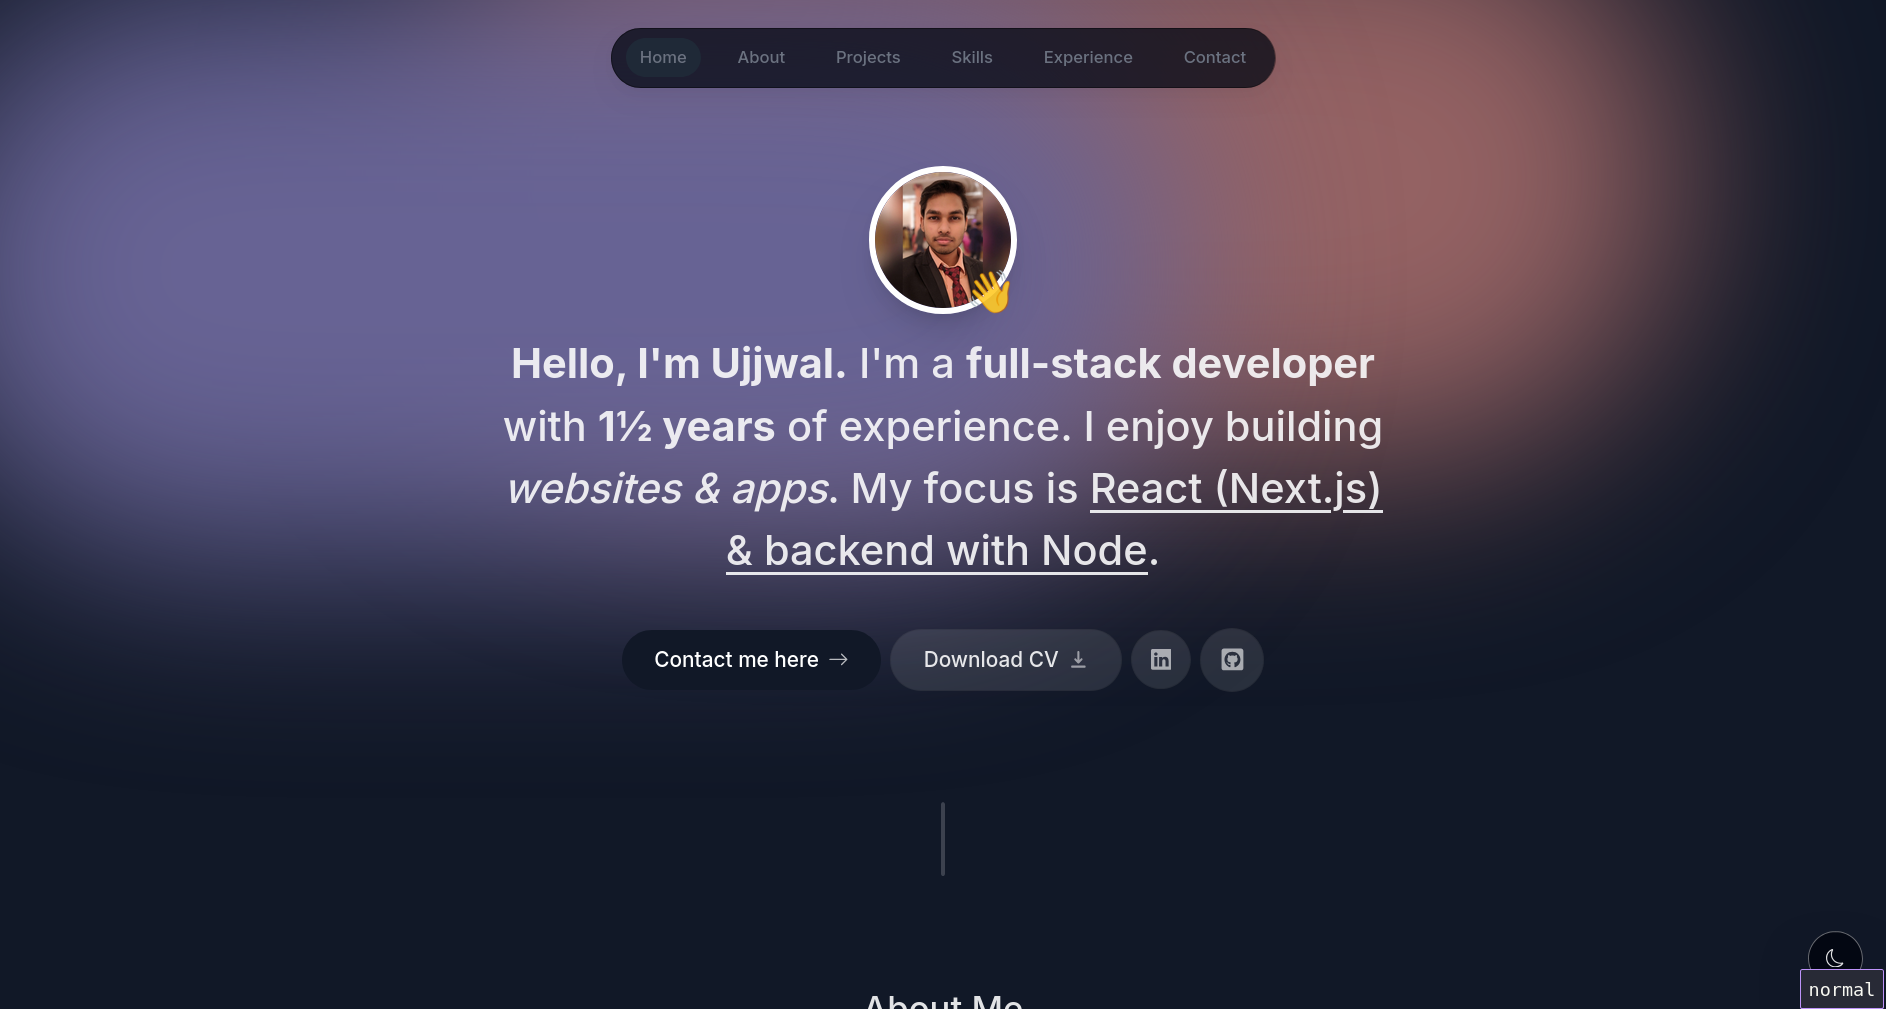
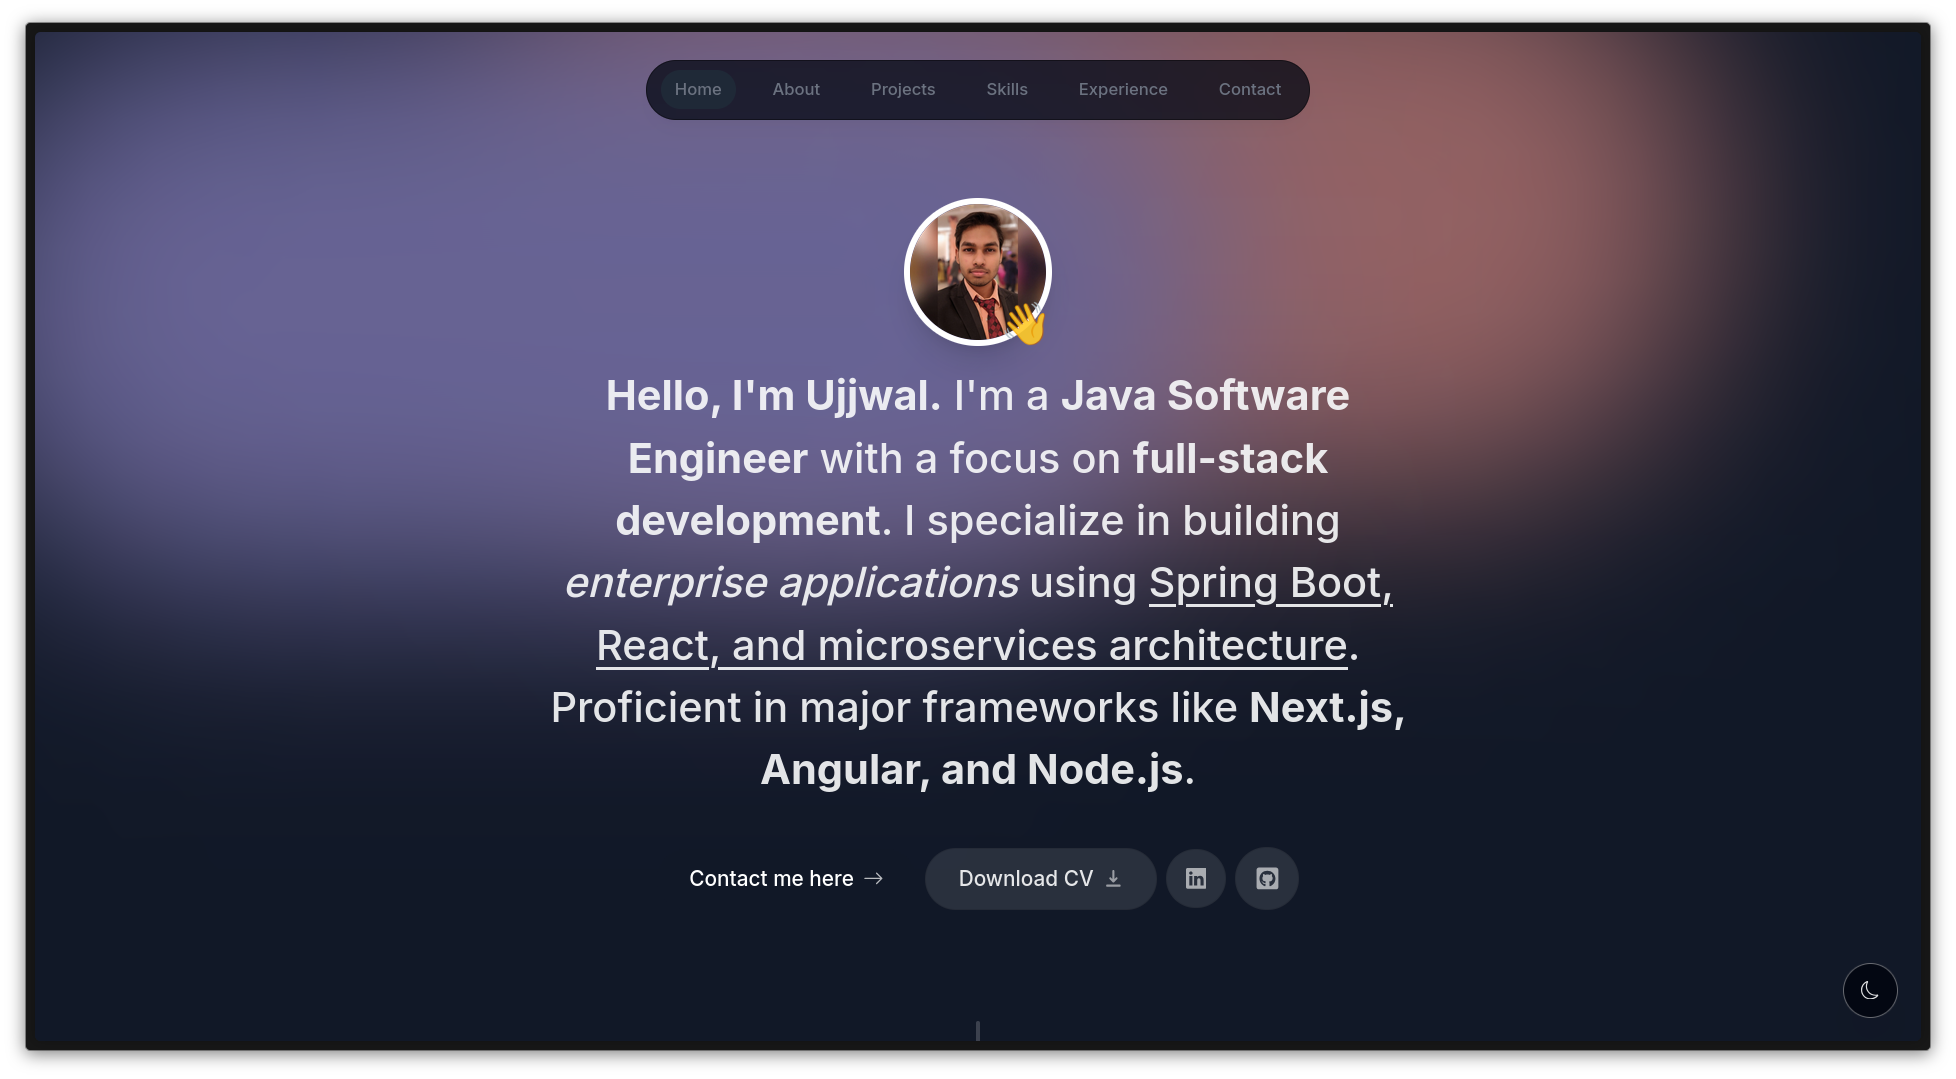
update README file

diff --git a/README.md b/README.md
@@ -10,84 +10,112 @@
 
 ## 🚀 Professional Summary
 
-Innovative Software Engineer specializing in full-stack development with expertise in:
+Full-stack Software Engineer with expertise in **Java/Spring Boot** and modern **JavaScript frameworks**, specializing in building secure, scalable services-based applications. Strong background in developing enterprise-level solutions with a focus on performance optimization and user experience. Combines analytical problem-solving abilities with collaborative skills to deliver high-impact software solutions across healthcare, education, and financial technologies.
 
-- Microservices architecture & cloud-native solutions
-- High-performance application development
-- Secure system design & implementation
-- Machine learning integration
+**Core Competencies:**
+Spring Boot • React/Next.js • Docker • CI/CD • REST APIs
 
-**Core Competencies:** Spring Boot • React/Next.js • AWS • Docker • CI/CD
+---
 
-## 🛠 Technical Arsenal
+## 🛠 Technical Proficiencies
 
 ### **Programming Languages**
 
 ![Java](https://img.shields.io/badge/Java-ED8B00?style=flat-square&logo=java&logoColor=white)
 ![TypeScript](https://img.shields.io/badge/TypeScript-007ACC?style=flat-square&logo=typescript&logoColor=white)
+![JavaScript](https://img.shields.io/badge/JavaScript-F7DF1E?style=flat-square&logo=javascript&logoColor=black)
 ![Python](https://img.shields.io/badge/Python-3776AB?style=flat-square&logo=python&logoColor=white)
 
-### **Web Technologies**
+### **Frameworks & Technologies**
 
 ![Spring Boot](https://img.shields.io/badge/Spring_Boot-6DB33F?style=flat-square&logo=spring-boot&logoColor=white)
+![Node.js](https://img.shields.io/badge/Node.js-339933?style=flat-square&logo=node.js&logoColor=white)
 ![React](https://img.shields.io/badge/React-20232A?style=flat-square&logo=react&logoColor=61DAFB)
 ![Next.js](https://img.shields.io/badge/Next.js-000000?style=flat-square&logo=next.js&logoColor=white)
+![Angular](https://img.shields.io/badge/Angular-DD0031?style=flat-square&logo=angular&logoColor=white)
 
-### **Cloud & DevOps**
+### **Databases & Tools**
 
-![AWS](https://img.shields.io/badge/AWS-232F3E?style=flat-square&logo=amazon-aws&logoColor=white)
+![MySQL](https://img.shields.io/badge/MySQL-4479A1?style=flat-square&logo=mysql&logoColor=white)
+![PostgreSQL](https://img.shields.io/badge/PostgreSQL-4169E1?style=flat-square&logo=postgresql&logoColor=white)
+![MongoDB](https://img.shields.io/badge/MongoDB-47A248?style=flat-square&logo=mongodb&logoColor=white)
+![Firebase](https://img.shields.io/badge/Firebase-FFCA28?style=flat-square&logo=firebase&logoColor=black)
 ![Docker](https://img.shields.io/badge/Docker-2496ED?style=flat-square&logo=docker&logoColor=white)
-![Kubernetes](https://img.shields.io/badge/Kubernetes-326CE5?style=flat-square&logo=kubernetes&logoColor=white)
-
-## 💻 Highlighted Projects
-
-### **Microservice Healthcare Platform** [![GitHub](https://img.shields.io/badge/Source-181717?style=flat-square&logo=github)](https://github.com/gargujjwal/HackForHer-Health)
-
-- Architected Spring Boot/Flask microservices with JWT security
-- Developed ML-powered cancer prediction system (95-98% accuracy)
-- **Tech Stack**: Spring Boot • PostgreSQL • Docker • Machine Learning
-
-### **Enterprise School Management System**
-
-- Handled 1200+ student records with AWS deployment
-- Implemented type-safe APIs using tRPC
-- **Tech Stack**: Next.js • Prisma • AWS EC2 • Microservices
-
-### **Full-Stack Recipe Platform** [![GitHub](https://img.shields.io/badge/Source-181717?style=flat-square&logo=github)](https://github.com/gargujjwal/Forklify)
-
-- Developed secure CRUD application with NextAuth.js
-- **Tech Stack**: Next.js • MongoDB • Material UI
-
-## 🏆 Professional Journey
-
-### **Backend Development Intern** @ Valsco Technology
-
-- Optimized SEO for top 5 Google rankings
-- Integrated payment gateways & web scraping systems
-
-### **Technical Mentor** @ Ayna College
-
-- Mentored 4,000+ students with 5-star rated support
-- Provided technical guidance on full-stack development
-
-## 📚 Education
-
-**B.Tech in Information Technology**  
-Vellore Institute of Technology (CGPA: 8.99/10)  
-_2021-2025_
-
-**Senior Secondary Education**  
-Flora Dale School (94.4%)  
-_2019-2021_
-
-## 📜 Certifications
-
-- Java Spring Boot Mastery Certification
-- Next.js Advanced Development Certification
-- AWS Cloud Practitioner Essentials
+![Git](https://img.shields.io/badge/Git-F05032?style=flat-square&logo=git&logoColor=white)
 
 ---
 
-📫 **Let's Connect**:  
+## 💻 Professional Projects
+
+### **Cervix Cancer Predictor** [![GitHub](https://img.shields.io/badge/Source-181717?style=flat-square&logo=github)](https://github.com/gargujjwal/HackForHer-Health)
+
+- Architected scalable services using **Spring Boot** and **Flask** with domain-driven design.
+- Developed **ML-powered cervical cancer prediction** system with secure patient-doctor communication.
+- Implemented **JWT-based authentication** using Spring Security and features like real-time chat and medical-case management.
+- **Tech Stack**: Spring Boot, Flask, PostgreSQL, Docker, Machine Learning.
+
+### **Enterprise School Management System**
+
+- Engineered platform handling **1200+ student records** with modular architecture.
+- Implemented **type-safe APIs** using tRPC and features like Fee Management and Attendance Tracking.
+- **Tech Stack**: Next.js, Prisma ORM, AWS EC2, TypeScript, MySQL.
+
+### **Full-Stack Recipe Sharing Platform** [![GitHub](https://img.shields.io/badge/Source-181717?style=flat-square&logo=github)](https://github.com/gargujjwal/Forklify)
+
+- Developed scalable full-stack application with **CRUD operations** and secure authentication using NextAuth.js.
+- **Tech Stack**: Next.js, MongoDB, Prisma, Material UI.
+
+### **Cross-Platform Expense Tracker** [![GitHub](https://img.shields.io/badge/Source-181717?style=flat-square&logo=github)](https://github.com/gargujjwal)
+
+- Created cross-platform mobile app with **Redux state management** and real-time Firebase synchronization.
+- **Tech Stack**: React Native, Redux, Firebase, Expo.
+
+---
+
+## 🏆 Professional Experience
+
+### **Backend Development Intern** @ Valsco Technology
+
+_Aug 2023 – Sep 2023_
+
+- Optimized website **SEO**, achieving **top 5 Google search ranking**.
+- Executed **web scraping** using Puppeteer for database seeding.
+- Integrated **third-party payment gateway** to enhance platform capabilities.
+
+### **Technical Teaching Assistant** @ Ayna College
+
+_Oct 2023 – Jan 2024_
+
+- Mentored **4,000+ students**, providing technical guidance and doubt resolution.
+- Maintained **5-star rating** through comprehensive support.
+
+---
+
+## 📚 Education
+
+**Bachelor of Technology in Information Technology**
+Vellore Institute of Technology
+_CGPA: 8.96/10 • 2021 – 2025_
+
+**Senior Secondary Education (CBSE XII)**
+Flora Dale School
+_Percentage: 94.4% • 2021_
+
+**Higher Secondary Education (CBSE X)**
+Flora Dale School
+_Percentage: 93.8% • 2019_
+
+---
+
+## 📜 Certifications
+
+- **Java Spring Boot 0 to 100**
+- **Advanced Web Development Bootcamp**
+- **Next.js 13 Advanced Techniques**
+
+---
+
+📫 **Let's Connect**:
 [![Email](https://img.shields.io/badge/garg.ujjwal04@gmail.com-D14836?style=flat-square&logo=gmail&logoColor=white)](mailto:garg.ujjwal04@gmail.com)
 [![LinkedIn](https://img.shields.io/badge/Ujjwal_Garg-0077B5?style=flat-square&logo=linkedin&logoColor=white)](https://www.linkedin.com/in/gargujjwal04/)
+[![GitHub](https://img.shields.io/badge/gargujjwal-181717?style=flat-square&logo=github&logoColor=white)](https://github.com/gargujjwal)
